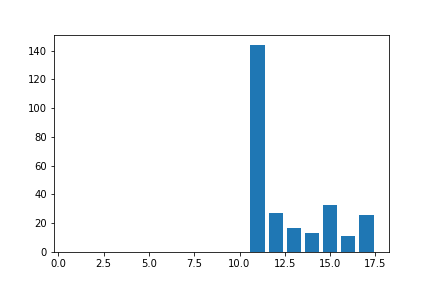
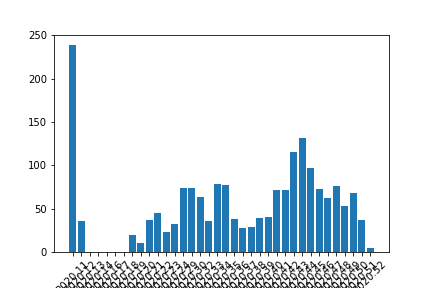
changed fig

diff --git a/nerdcup.py b/nerdcup.py
@@ -11,9 +11,10 @@ def main():
     print(total_values)
     total_values[0].to_csv("test.csv")
     # total_values[0]["Woche"].plt
-    anzahl = total_values[0][total_values[0]["year"] == 2021]["Anzahl"].values
-    woche = total_values[0][total_values[0]["year"] == 2021]["week"].values
+    anzahl = total_values[0][total_values[0]["year"] == 2020]["Anzahl"].values
+    woche = total_values[0][total_values[0]["year"] == 2020]["Woche"].values
     plt.bar(height=anzahl, x=woche)
+    plt.xticks(rotation=45)
     plt.savefig("Mensa0.png")
     
     print(anzahl)
